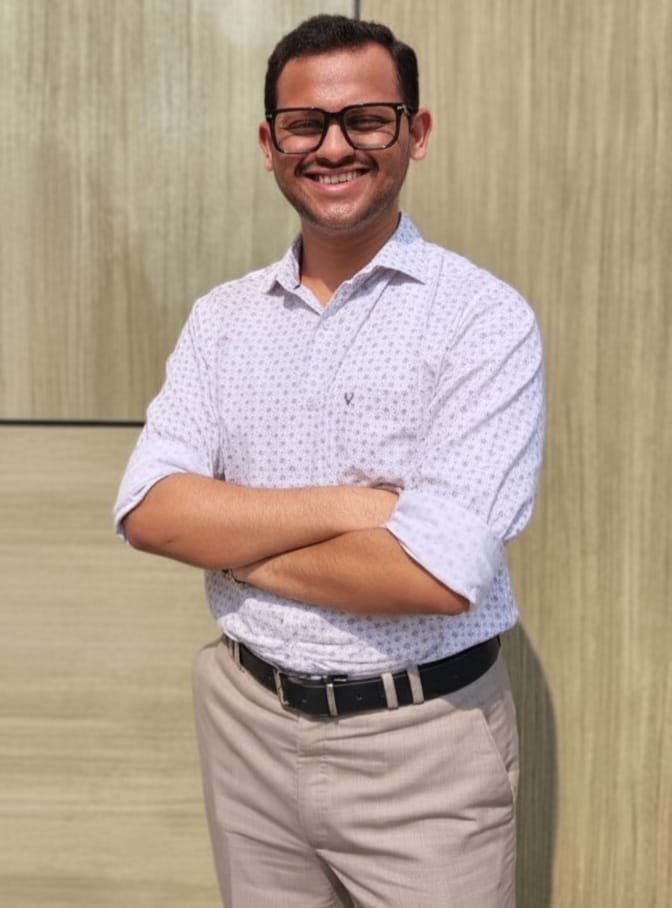
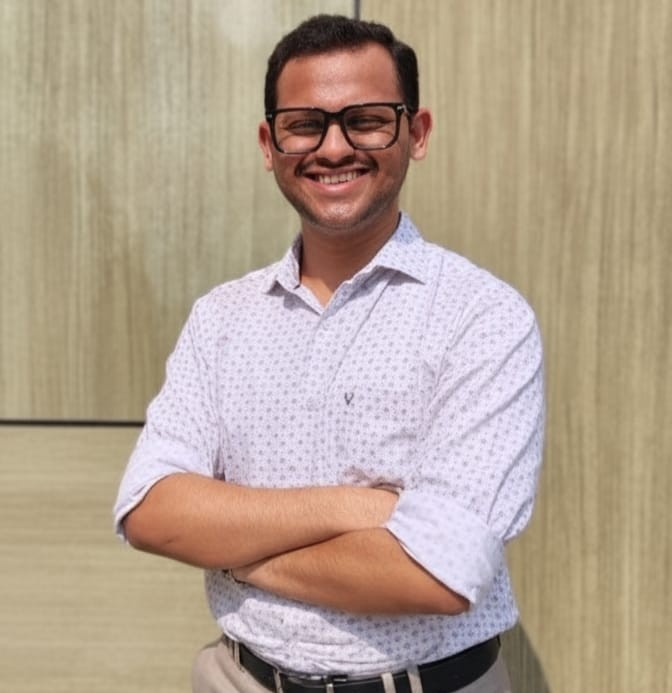
Updated the Meet the Team section of Landing Page along with the navbar in all pages.

diff --git a/frontend/src/components/MeetTheTeam.jsx b/frontend/src/components/MeetTheTeam.jsx
@@ -1,23 +1,30 @@
 import { useEffect, useRef } from "react";
+import { Linkedin, Github } from "lucide-react";
 
 const team = [
   {
     name: "Siddhi Gawade",
     role: "AI & System Design",
     desc: "Designed narrative detection pipeline and system architecture.",
-    image: "/siddhi.jpeg"
+    image: "/siddhi.jpeg",
+    linkedin: "https://www.linkedin.com/in/siddhi-gawade/",
+    github: "https://github.com/SiddhiGawade"
   },
   {
     name: "Sejal Dhanve",
     role: "Frontend & UX",
     desc: "Built interactive UI and visual storytelling experience.",
-    image: "/sejal.jpeg"
+    image: "/sejal.jpeg",
+    linkedin: "https://www.linkedin.com/in/sejal-dhanve-b01882310/",
+    github: "https://github.com/sejaldhanve"
   },
   {
     name: "Kedar Sawant",
     role: "Data & Research",
     desc: "Market research, narrative validation, and evaluation.",
-    image: "/kedar.jpeg"
+    image: "/kedar.jpeg",
+    linkedin: "https://www.linkedin.com/in/kedar-sawant-891968340/",
+    github: "https://github.com/sawantkedar0803-cloud"
   }
 ];
 
@@ -73,7 +80,16 @@ export default function MeetTheTeam() {
 
               <h3 className="text-lg text-[#14213d] dark:text-white font-semibold mb-1.5">{member.name}</h3>
               <span className="block text-sm text-[#fca311] font-semibold mb-3.5">{member.role}</span>
-              <p className="text-sm text-[#6b7280] dark:text-gray-400 leading-relaxed">{member.desc}</p>
+              <p className="text-sm text-[#6b7280] dark:text-gray-400 leading-relaxed mb-6">{member.desc}</p>
+
+              <div className="flex justify-center gap-4">
+                  <a href={member.linkedin} target="_blank" rel="noopener noreferrer" className="flex items-center justify-center w-10 h-10 rounded-full border border-[#14213d] dark:border-white text-[#14213d] dark:text-white hover:bg-[#14213d] hover:text-white dark:hover:bg-white dark:hover:text-black transition-all">
+                      <Linkedin size={18} />
+                  </a>
+                  <a href={member.github} target="_blank" rel="noopener noreferrer" className="flex items-center justify-center w-10 h-10 rounded-full border border-[#14213d] dark:border-white text-[#14213d] dark:text-white hover:bg-[#14213d] hover:text-white dark:hover:bg-white dark:hover:text-black transition-all">
+                      <Github size={18} />
+                  </a>
+              </div>
             </div>
           ))}
         </div>

diff --git a/frontend/src/components/Header.jsx b/frontend/src/components/Header.jsx
@@ -1,5 +1,5 @@
 import React from 'react';
-import { Eye, TrendingUp, Sun, Moon, Activity } from 'lucide-react';
+import { Eye, TrendingUp, Sun, Moon, Activity, LayoutDashboard } from 'lucide-react';
 import { Link } from 'react-router-dom';
 import { useTheme } from '../context/ThemeContext';
 import snaLogo from '../assets/SNA_Logo.png';
@@ -29,7 +29,7 @@ const Header = () => {
   const goldPrice = 2650.10;
 
   return (
-    <header className="flex items-center justify-between p-6 border-b border-[#fca311]/20 dark:border-white/5 bg-white/95 dark:bg-white/[0.02] backdrop-blur-md sticky top-0 z-50 shadow-sm dark:shadow-[0_4px_30px_rgba(0,0,0,0.1)] transition-colors duration-300">
+    <header className="flex items-center justify-between p-6 border-b border-[#fca311]/20 dark:border-white/5 bg-white/60 dark:bg-[#050510]/60 backdrop-blur-xl sticky top-0 z-50 shadow-sm dark:shadow-[0_4px_30px_rgba(0,0,0,0.1)] transition-colors duration-300">
       <div className="flex items-center gap-3 group">
         <Link to="/">
           <img src={snaLogo} alt="SNA Logo" className="h-[50px] w-auto object-contain hover:scale-105 transition-transform duration-300" />
@@ -37,6 +37,11 @@ const Header = () => {
       </div>
 
       <div className="flex items-center gap-6 text-sm font-mono">
+        <Link to="/dashboard" className="p-2 rounded-lg hover:bg-[#ffffff]/10 dark:hover:bg-white/10 text-slate-500 dark:text-slate-300 transition-colors flex items-center gap-2 hover:text-[#fca311] dark:hover:text-cyan-400">
+           <LayoutDashboard size={18} />
+           <span className="hidden sm:inline">Dashboard</span>
+        </Link>
+
         {/* Theme Toggle */}
         <Link to="/metrics" className="p-2 rounded-lg hover:bg-[#ffffff]/10 dark:hover:bg-white/10 text-slate-500 dark:text-slate-300 transition-colors flex items-center gap-2 hover:text-[#fca311] dark:hover:text-cyan-400">
            <Activity size={18} />

diff --git a/frontend/src/pages/LandingPage.jsx b/frontend/src/pages/LandingPage.jsx
@@ -49,7 +49,7 @@ export default function LandingPage() {
               onClick={onStartAnalysis}
               className="group relative inline-flex items-center gap-3 px-8 py-4 bg-gradient-to-br from-[#fca311] to-[#eb5e28] text-black rounded-full font-bold text-lg shadow-[0_0_25px_rgba(252,163,17,0.45)] hover:shadow-[0_0_40px_rgba(252,163,17,0.6)] hover:scale-105 active:scale-95 transition-all duration-300"
             >
-              Start Live Scan
+              Start Live Narrative Analysis
               <MoveRight className="w-5 h-5 group-hover:translate-x-1 transition-transform" />
             </button>
           </div>

diff --git a/MD FILES/NARRATIVE_SENTIMENT_MODEL.md b/MD FILES/NARRATIVE_SENTIMENT_MODEL.md
@@ -1,0 +1,40 @@
+# Narrative Sentiment Analysis Model
+
+To classify the generated narratives about the **Silver** market as **Positive** (Bullish) or **Negative** (Bearish), we will use a specialized Large Language Model (LLM) fine-tuned for financial sentiment.
+
+## Selected Model: FinBERT
+**Model Name:** `yiyanghkust/finbert-tone` or `ProsusAI/finbert`
+
+### Why FinBERT?
+1.  **Domain Specificity**: Unlike standard BERT, FinBERT is pre-trained on a massive corpus of financial documents (corporate reports, earnings calls, financial news).
+2.  **Context Awareness**: It understands that words like "volatility" or "correction" have specific financial implications that generic sentiment models might misinterpret.
+3.  **Accuracy**: It consistently outperforms generic models (like VADER or standard BERT) in financial text classification tasks.
+
+## Implementation Strategy
+
+### Input
+The "Generated Narrative" (the summary text of the cluster) + Representative Titles.
+
+### Process
+1.  **Tokenization**: The narrative text is tokenized using the FinBERT tokenizer.
+2.  **Inference**: The model predicts the probability of three classes:
+    *   **Positive**: Implies upward price pressure (Bullish).
+    *   **Negative**: Implies downward price pressure (Bearish).
+    *   **Neutral**: No clear directional signal.
+3.  **Aggregation**: If the narrative is long, we may split it into sentences, classify each, and aggregate the score to determine the overall sentiment.
+
+### Output
+A sentiment label (`Positive`, `Negative`, `Neutral`) and a confidence score (e.g., `0.85`).
+
+## Integration
+This model will be integrated into the Python backend.
+*   **Library**: `transformers` (Hugging Face)
+*   **Pipeline**: `sentiment-analysis`
+
+```python
+from transformers import pipeline
+
+nlp = pipeline("sentiment-analysis", model="yiyanghkust/finbert-tone")
+results = nlp(["Silver prices soar amid rising inflation fears.", "Industrial demand for silver weakens."])
+# Output: [{'label': 'Positive', 'score': ...}, {'label': 'Negative', 'score': ...}]
+```
